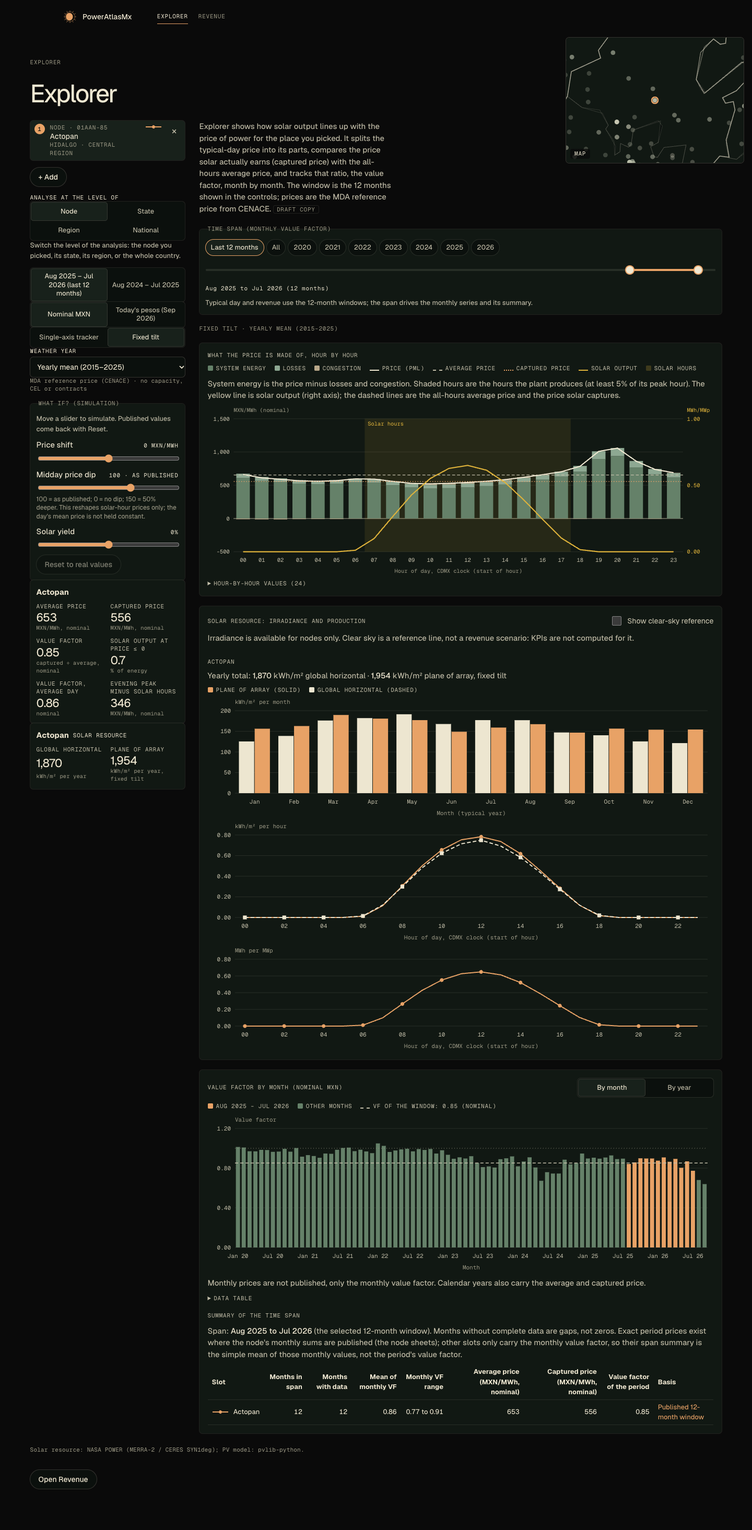
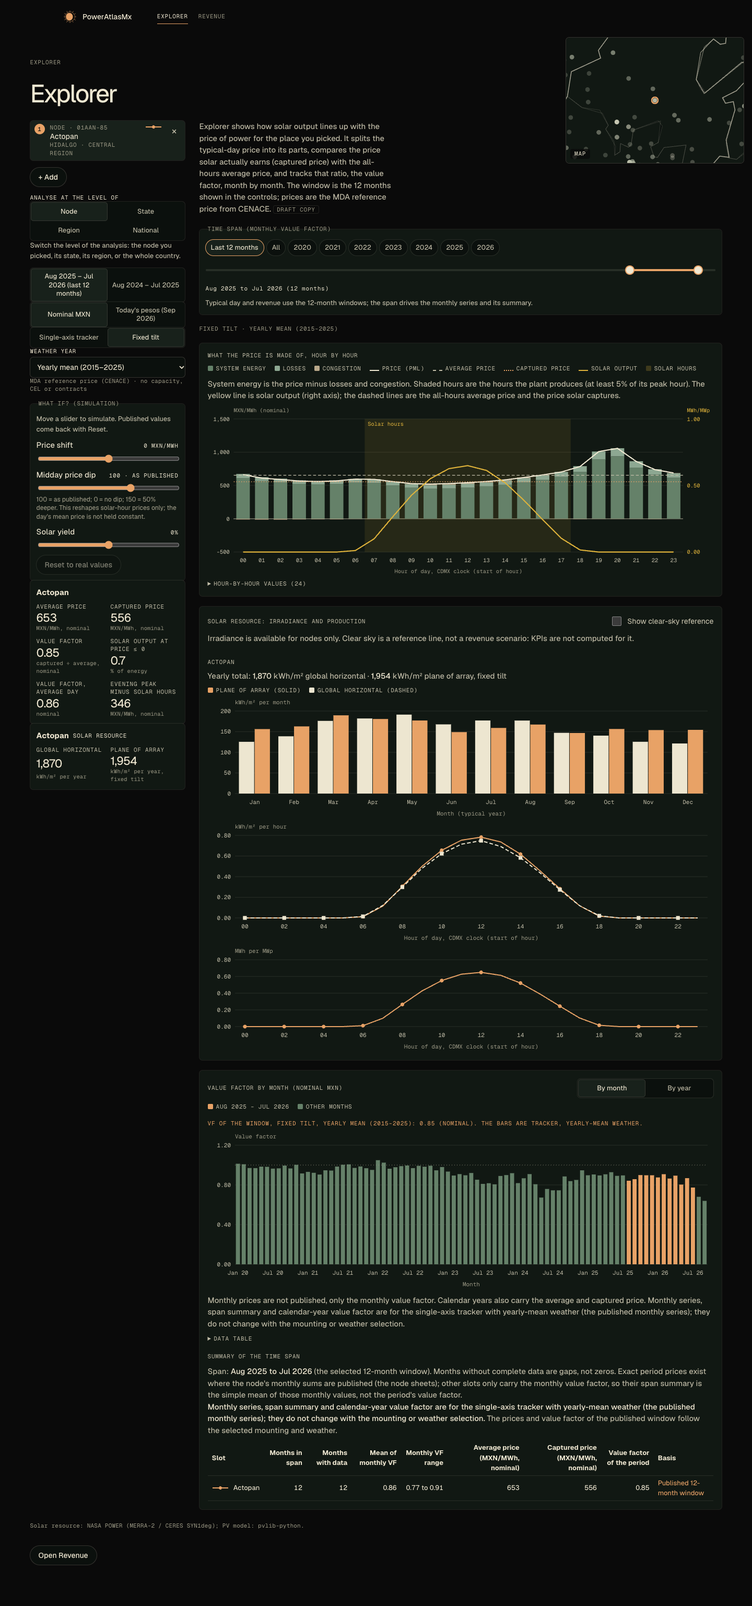
v2: m10 fixes (monthly note under fixed/weather, lazy irradiance, pinned data cache, one-shot context change, derived area labels, legend)

diff --git a/web/v2/assets/js/irradiance.js b/web/v2/assets/js/irradiance.js
@@ -1,7 +1,7 @@
 // Solar resource of node slots: GHI and plane-of-array (tracker or fixed per mounting), monthly and typical day, optional clear-sky
 // reference (a reference line, not a scenario: no KPIs exist for it) and cloud loss. Areas have no irradiance files.
 import { num } from '../../../assets/js/format.js';
-import { irradianceOf } from './solar-data.js';
+import { irradianceOf, isDefaultCtx } from './solar-data.js';
 import { groupChart, lineChart, renderChart, chartWidth, thin } from './svg-charts.js';
 import { COPY } from './copy.js';
 import { esc, nameOf } from './compare-ui.js';
@@ -42,7 +42,7 @@ export function nodeSolar({ id, cfg, wx, winId, vfile, clear }) {
 export function irradianceCardHTML(slots, clearOn) {
   return `<section class="xp-card irr" id="irr-card"><div class="xp-vhead"><h2 class="mono">Solar resource: irradiance and production</h2>
     <label class="chk"><input type="checkbox" id="irr-clear"${clearOn ? ' checked' : ''}> <span>Show clear-sky reference</span></label></div>
-    <p class="xp-text">${esc(COPY.irrNote)}</p><div id="irr-body">${slots.some((s) => s.kind === 'node') ? '<p class="xp-text">Loading irradiance…</p>' : '<p class="xp-text">Irradiance is available for nodes: pick a node to see it.</p>'}</div></section>`;
+    <p class="xp-text">${esc(COPY.irrNote)}</p><div id="irr-body">${slots.some((s) => s.kind === 'node') ? '<p class="xp-text">Irradiance loads when this section comes into view.</p>' : '<p class="xp-text">Irradiance is available for nodes: pick a node to see it.</p>'}</div></section>`;
 }
 
 /** body: fills #irr-body once the files are loaded. data = {vfile, clear}; entries = scenario/real entries with slots. */
@@ -53,7 +53,7 @@ export function paintIrradiance(root, { entries, shell, winId, cfg, wx, data, cl
   if (!nodes.length) { body.innerHTML = `<p class="xp-text">${esc(COPY.irrNote)}</p>`; return; }
   const plane = cfg === 'fijo' ? 'plane of array, fixed tilt' : 'plane of array, tracker';
   body.innerHTML = nodes.map(({ e, k }) => `<div class="irr-slot"><h3 class="mono sub">${esc(nameOf(shell, e))}</h3><div class="irr-sum" data-sum="${k}"></div>
-    <div class="legend mono"><span><i style="background:var(--s1)"></i>Plane of array (solid)</span><span><i style="background:var(--s2)"></i>Global horizontal (dashed)</span>${clearOn ? '<span><i class="band"></i>Clear sky: outline bars, dotted lines</span>' : ''}</div>
+    <div class="legend mono"><span><i style="background:var(--s1)"></i>Plane of array (solid)</span><span><i style="background:var(--s2)"></i>Global horizontal (dashed)</span>${clearOn ? '<span><i class="outline"></i>Clear sky: outline bars, dotted lines</span>' : ''}</div>
     <div class="chart" data-m="${k}"></div><div class="chart" data-h="${k}"></div><div class="chart" data-p="${k}"></div></div>`).join('');
   for (const { e, k } of nodes) {
     const s = nodeSolar({ id: e.slot.id, cfg, wx, winId, vfile: data.vfile, clear: clearOn ? data.clear : null });
@@ -61,7 +61,7 @@ export function paintIrradiance(root, { entries, shell, winId, cfg, wx, data, cl
     if (!s) { sum.textContent = 'No irradiance for this node.'; continue; }
     const wxNote = wx === 'win' ? ' (window months, Aug to Jul)' : '';
     sum.innerHTML = `Yearly total${esc(wxNote)}: <b>${num(s.annual.ghi, 0)}</b> kWh/m² global horizontal · <b>${num(s.annual.poa, 0)}</b> kWh/m² ${plane}`
-      + (s.loss ? ` · cloud loss vs clear sky: <b>${s.loss.poa === null ? '—' : num(s.loss.poa, 1)}%</b> of irradiance, <b>${s.loss.prod === null ? '—' : num(s.loss.prod, 1)}%</b> of production` : '');
+      + (s.loss ? ` · cloud loss vs clear sky: <b>${s.loss.poa === null ? '—' : num(s.loss.poa, 1)}%</b> of yearly plane-of-array irradiance, <b>${s.loss.prod === null ? '—' : num(s.loss.prod, 1)}%</b> of typical-day production (1 − real ÷ clear)` : '');
     const ghost = clearOn && s.c;
     renderChart(body.querySelector(`[data-m="${k}"]`), () => groupChart({ labels: s.mGhi.labels, H: 230, fmt: (v) => num(v, 0), xEvery: thin(12, chartWidth(body.querySelector(`[data-m="${k}"]`)), 44),
       series: [{ vals: s.mGhi.vals, color: 'var(--s2)', label: 'GHI' }, { vals: s.mPoa.vals, color: 'var(--s1)', label: 'POA' }, ...(ghost ? [{ vals: s.mGhiClear, ghost: true, label: 'GHI, clear sky' }, { vals: s.mPoaClear, ghost: true, label: 'POA, clear sky' }] : [])],
@@ -75,3 +75,6 @@ export function paintIrradiance(root, { entries, shell, winId, cfg, wx, data, cl
     renderChart(body.querySelector(`[data-p="${k}"]`), () => lineChart({ series: ps, labels: hrs, H: 200, xEvery: 2, markEvery: 2, fmt: (v) => num(v, 2), aria: 'Typical day production by hour in megawatt hours per megawatt peak', ytitle: 'MWh per MWp', xtitle: 'Hour of day, CDMX clock (start of hour)' }));
   }
 }
+
+/** the irradiance files (4-5 MB) are fetched only when the card is visible, or when a non-default option already fetched that file. */
+export const shouldLoadIrradiance = (ctx, visible) => !!visible || !isDefaultCtx(ctx);

diff --git a/web/v2/assets/js/area-tables.js b/web/v2/assets/js/area-tables.js
@@ -2,6 +2,8 @@
 import { WIN, stName, regName } from '../../../assets/js/names.js';
 import { num } from '../../../assets/js/format.js';
 import { esc } from './compare-ui.js';
+import { isDefaultCtx, variantRecord } from './solar-data.js';
+import { COPY } from './copy.js';
 
 const mil = (v) => (v === null || v === undefined ? '—' : num(v / 1e6, 2));
 export const COLUMNS = [
@@ -23,6 +25,15 @@ export function areaRows(analysis, winId, level, real) {
       rev: real && s.ingreso_real_mxn_por_mwp != null ? s.ingreso_real_mxn_por_mwp : s.ingreso_mxn_por_mwp, n: s.n_nodos };
   });
 }
+/** non-default mounting / weather: the same table derived in the browser (mean over member nodes), from the solar_v2 files. */
+export function areaRowsCtx(src, analysis, winId, level, real, ctx) {
+  const c = analysis.ventanas[WIN[winId].key].por_config.tracker;
+  const keys = Object.keys(level === 'state' ? c.estados : c.regiones);
+  return keys.map((id) => variantRecord(src, { kind: level, id }, winId, ctx)).filter((r) => !r.missing).map((r) => ({
+    id: r.key, level, name: level === 'state' ? stName(r.key) : regName(r.key), n: r.n,
+    base: real && r.baseReal != null ? r.baseReal : r.base, cap: real && r.capReal != null ? r.capReal : r.cap,
+    vf: (real && r.baseReal ? r.capReal / r.baseReal : r.vf), rev: real && r.ingresoReal != null ? r.ingresoReal : r.ingreso }));
+}
 export function sortRows(rows, key, dir = -1) {
   const t = rows.slice();
   t.sort((a, b) => (key === 'name' ? dir * a.name.localeCompare(b.name) : dir * ((a[key] ?? -Infinity) - (b[key] ?? -Infinity))) || a.name.localeCompare(b.name));
@@ -30,14 +41,16 @@ export function sortRows(rows, key, dir = -1) {
 }
 const fmt = (c, r) => (c.k === 'name' ? esc(r.name) : c.k === 'rev' ? mil(r.rev) : c.k === 'vf' ? num(r.vf, 2) : c.k === 'n' ? num(r.n, 0) : num(r[c.k], 0));
 
-export function areaTablesHTML(analysis, winId, real, sorts) {
+export function areaTablesHTML(analysis, winId, real, sorts, opts = {}) {
   const pesos = real ? "today's pesos" : 'nominal';
+  const ctx = opts.ctx || { cfg: 'tracker', wx: 'mean' }, dflt = isDefaultCtx(ctx);
+  const ctxText = `${ctx.cfg === 'fijo' ? 'fixed tilt' : 'single-axis tracker'} · ${COPY.wxLabel(ctx.wx)}`;
   return ['state', 'region'].map((level) => {
-    const s = sorts[level], rows = sortRows(areaRows(analysis, winId, level, real), s.key, s.dir);
+    const s = sorts[level], base = dflt || !opts.src ? areaRows(analysis, winId, level, real) : areaRowsCtx(opts.src, analysis, winId, level, real, ctx), rows = sortRows(base, s.key, s.dir);
     const head = COLUMNS.map((c) => `<th class="${c.text ? '' : 'n'}" aria-sort="${s.key === c.k ? (s.dir > 0 ? 'ascending' : 'descending') : 'none'}"><button type="button" class="sort" data-level="${level}" data-key="${c.k}">${esc(c.h)}${c.unit ? ` <span class="u">${esc(c.unit)}${c.k === 'rev' || c.k === 'base' || c.k === 'cap' ? `, ${pesos}` : ''}</span>` : ''}</button></th>`).join('');
     const body = rows.map((r) => `<tr class="pick-row" tabindex="0" data-level="${level}" data-id="${esc(r.id)}"><td>${esc(r.name)}</td>${COLUMNS.slice(1).map((c) => `<td class="n">${fmt(c, r)}</td>`).join('')}</tr>`).join('');
-    return `<section class="xp-card"><h2 class="mono">${level === 'state' ? 'All states' : 'All regions'}, ${esc(WIN[winId].label)} · ${esc(pesos)}</h2>
-      <p class="xp-text">Published area figures. Click a row to analyse that ${level}. Click a heading to sort.</p><div class="tbl cmp tall"><table><thead><tr>${head}</tr></thead><tbody>${body}</tbody></table></div></section>`;
+    return `<section class="xp-card"><h2 class="mono">${level === 'state' ? 'All states' : 'All regions'}, ${esc(WIN[winId].label)} · ${esc(pesos)} · ${esc(ctxText)}</h2>
+      <p class="xp-text">${dflt ? 'Published area figures.' : 'Mean over member nodes (derived in the browser from the published node figures).'} Click a row to analyse that ${level}. Click a heading to sort.</p><div class="tbl cmp tall"><table><thead><tr>${head}</tr></thead><tbody>${body}</tbody></table></div></section>`;
   }).join('');
 }
 

diff --git a/web/v2/assets/js/series-card.js b/web/v2/assets/js/series-card.js
@@ -9,6 +9,7 @@ import { segment } from './controls.js';
 import { COPY } from './copy.js';
 import { inSpan } from './span-data.js';
 import { isNeutral } from './query-extras.js';
+import { isDefaultCtx } from './solar-data.js';
 
 const SAND = 'var(--s1)', MUTED = 'var(--c-energy)';
 
@@ -27,7 +28,9 @@ export function paintSeries(root, { entries, shell, winId, view, onView }) {
   segment(q('#sr-view'), [['months', 'By month'], ['years', 'By year']], view, onView);
   q('#sr-title').textContent = view === 'months' ? `Value factor by month${span ? ` (${span.from} to ${span.to})` : ''} (nominal MXN)` : `Value factor, average and captured price by calendar year${real ? " (today's pesos)" : ' (nominal MXN)'}`;
   const sim = !isNeutral(shell.store.scenario);
-  q('#sr-note').textContent = COPY.seriesNote + (sim ? ' The bars, lines and the span summary are published values, not simulated.' : '');
+  const dflt = isDefaultCtx({ cfg: shell.store.cfg, wx: shell.store.wx });
+  const ctxLabel = `${shell.store.cfg === 'fijo' ? 'fixed tilt' : 'single-axis tracker'}, ${COPY.wxLabel(shell.store.wx)}`;
+  q('#sr-note').textContent = COPY.seriesNote + (dflt ? '' : ` ${COPY.monthlyNote}`) + (sim ? ' The bars, lines and the span summary are published values, not simulated.' : '');
   const px = q('#sr-px'); px.hidden = view !== 'years';
   if (!ok.length) { q('#sr-vf').innerHTML = '<p class="xp-text">No series for this selection.</p>'; q('#sr-table').innerHTML = ''; return; }
   const multi = entries.length > 1;
@@ -37,8 +40,12 @@ export function paintSeries(root, { entries, shell, winId, view, onView }) {
       const e = ok[0], pb = priceBasis(e.real || e.rec, real), sb = e.real ? priceBasis(e.rec, real) : null; // the bars are published: so is the line
       const vfs = e.series.vf.filter((_, i) => keep[i]);
       const bars = months.map((m, i) => { const inW = m >= w.desde && m <= w.hasta, v = vfs[i]; return { v, label: mesCorto(m), color: inW ? SAND : MUTED, tip: `${mesCorto(m)}: ${v === null ? 'no data' : num(v, 2)}${inW ? ' (in window)' : ''}` }; });
-      q('#sr-leg').innerHTML = `<span><i style="background:${SAND}"></i>${esc(w.label)}</span><span><i style="background:${MUTED}"></i>Other months</span><span><i class="dash"></i>VF of the window${sim ? ' (published)' : ''}: ${num(pb.vf, 2)}${pb.real ? " (today's pesos)" : ' (nominal)'}</span>${sb ? `<span class="exact">Simulated VF of the window: ${sb.vf === null ? 'n/a (price ≤ 0)' : num(sb.vf, 2)}</span>` : ''}`;
-      renderChart(q('#sr-vf'), () => barChart({ bars, hline: { v: pb.vf, label: `Window ${num(pb.vf, 2)}` }, refs: [1], scale: vfAxis(bars.map((b) => b.v).concat([pb.vf])), H: 300, xEvery: every, aria: 'Value factor by month', ytitle: 'Value factor', xtitle: 'Month' }));
+      const vfTxt = `${num(pb.vf, 2)}${pb.real ? " (today's pesos)" : ' (nominal)'}`;
+      const winLine = dflt
+        ? `<span><i class="dash"></i>VF of the window${sim ? ' (published)' : ''}: ${vfTxt}</span>`
+        : `<span class="exact">VF of the window, ${esc(ctxLabel)}: ${vfTxt}. The bars are tracker, yearly-mean weather.</span>`;
+      q('#sr-leg').innerHTML = `<span><i style="background:${SAND}"></i>${esc(w.label)}</span><span><i style="background:${MUTED}"></i>Other months</span>${winLine}${sb ? `<span class="exact">Simulated VF of the window: ${sb.vf === null ? 'n/a (price ≤ 0)' : num(sb.vf, 2)}</span>` : ''}`;
+      renderChart(q('#sr-vf'), () => barChart({ bars, hline: dflt ? { v: pb.vf, label: `Window ${num(pb.vf, 2)}` } : null, refs: [1], scale: vfAxis(bars.map((b) => b.v).concat(dflt ? [pb.vf] : [])), H: 300, xEvery: every, aria: 'Value factor by month', ytitle: 'Value factor', xtitle: 'Month' }));
     } else {
       q('#sr-leg').innerHTML = legendHTML(entries, shell);
       const ser = entries.map((e) => ({ vals: e.series ? e.series.vf.filter((_, i) => keep[i]) : months.map(() => null), label: nameOf(shell, e) }));

diff --git a/web/v2/assets/js/view-base.js b/web/v2/assets/js/view-base.js
@@ -2,6 +2,7 @@
 // repaint on selection, window, basis and width changes. A view supplies { mainHTML(ctx), draw(root, ctx) }.
 import { WIN } from '../../../assets/js/names.js';
 import { loadEntries } from './compare-data.js';
+import { loadSourcesCtx } from './solar-data.js';
 import { loadSources } from './explorer-data.js';
 import { serializeSel } from './store.js';
 import { mountControls } from './controls.js';
@@ -44,7 +45,7 @@ export function mountView({ host, side, shell, view, build }) {
     el.textContent = 'Loading span summary…';
     const rows = await summaryRows(entries, shell, shell.store.span, w, real);
     if (my !== sumVer || dead || !q('#sr-summary')) return;
-    q('#sr-summary').innerHTML = summaryHTML(rows, shell, shell.store.span, w, real);
+    q('#sr-summary').innerHTML = summaryHTML(rows, shell, shell.store.span, w, real, isDefaultCtx({ cfg: shell.store.cfg, wx: shell.store.wx }));
   }
 
   function paint() {
@@ -63,7 +64,7 @@ export function mountView({ host, side, shell, view, build }) {
     if (national) {
       const el = body.querySelector('#vb-areas');
       const drawAreas = () => {
-        el.innerHTML = areaTablesHTML(ctxExtra.analysis, winOf(), real, sorts);
+        el.innerHTML = areaTablesHTML(ctxExtra.analysis, winOf(), real, sorts, { src: ctxExtra.src, ctx: { cfg: shell.store.cfg, wx: shell.store.wx } });
         wireAreaTables(el, sorts, drawAreas, (slot) => shell.store.set([slot, ...shell.store.get().slice(1).filter((s) => !(s.kind === slot.kind && s.id === slot.id))]));
       };
       drawAreas();
@@ -79,12 +80,18 @@ export function mountView({ host, side, shell, view, build }) {
     state('loading', shell.store.cfg === 'fijo' || shell.store.wx !== 'mean' ? 'Loading fixed-tilt / weather-variant data…' : 'Loading data…');
     try {
       const ctx = { cfg: shell.store.cfg, wx: shell.store.wx };
-      const [list, src] = await Promise.all([loadEntries(slots, winOf(), ctx), slots[0].kind === 'national' ? loadSources({ kind: 'national', id: 'ALL' }) : Promise.resolve(null)]);
+      const [list, src] = await Promise.all([loadEntries(slots, winOf(), ctx), slots[0].kind === 'national' ? loadSourcesCtx({ kind: 'national', id: 'ALL' }, ctx) : Promise.resolve(null)]);
       if (my !== ver || dead) return;
       if (list.every((e) => e.error)) throw list[0].error;
-      raw = list; ctxExtra.analysis = src && src.analysis;
+      raw = list; ctxExtra.analysis = src && src.analysis; ctxExtra.src = src;
       ctxExtra.note2015 = null;
-      if (!isDefaultCtx(ctx) && ctx.wx === 'y2015') { try { ctxExtra.note2015 = (await getJSON(solarUrls(ctx).vs)).note_2015 || null; } catch { /* note is informative */ } }
+      if (!isDefaultCtx(ctx) && ctx.wx === 'y2015') {
+        try {
+          const v = await getJSON(solarUrls(ctx).vs), cnt = (win) => v.data.y2015[win].p_cap.filter((x) => x !== null && x !== undefined).length;
+          const raw15 = v.note_2015 || '';
+          ctxExtra.note2015 = raw15.replace(/the 2,431 KPI nodes/, `the nodes with data in the window (${cnt('Y1').toLocaleString('en-US')} in Y1, ${cnt('Y2').toLocaleString('en-US')} in Y2)`) || null;
+        } catch { /* note is informative */ }
+      }
       mountSpan();
       if (list.length === 1 && list[0].missing) {
         entries = null;

diff --git a/web/v2/sw.js b/web/v2/sw.js
@@ -6,10 +6,12 @@
 //  - v1's worker deletes every cache that does not start with its own VERSION (including ours): if that happens the shell is
 //    re-filled from the network on the next online visit, and offline navigations fall back to an inline page, never undefined.
 // Bump VERSION on every release that changes the shell.
-const VERSION = 'v2-m9-2-f1f5dac2';
+const VERSION = 'v2-m9-2-3cebfa03';
 const SHELL = `v2-shell-${VERSION}`;
 const DATA = 'v2-data';
-const DATA_MAX = 16; // bound of the data cache: the data files are 1 to 3 MB each, variants add up; oldest entries leave first
+// Data cache bound: the core JSON (index, analysis, series, profiles, per-config scalars: about 21 MB raw) is pinned; per-variant files
+// (variants/*.json about 4.5 MB, variant_extra about 0.25 MB) are evictable, oldest first, at most DATA_VARIANTS entries (about 25 MB worst case).
+const DATA_VARIANTS = 5;
 importScripts('sw-strategy.js', 'precache.js');
 
 const OFFLINE_HTML = '<!doctype html><html lang="en"><meta charset="utf-8"><meta name="viewport" content="width=device-width, initial-scale=1"><title>Offline · PowerAtlasMx</title>'
@@ -39,7 +41,7 @@ const handlers = {
     if (hit) return hit;
     return fetch(req).then((r) => { e.waitUntil(store(SHELL, req, r)); return r; }).catch(() => Response.error());
   }),
-  data: (req, e) => fetch(req).then((r) => { e.waitUntil(store(DATA, req, r).then(() => self.swStrategy.trimCache(caches, DATA, DATA_MAX))); return r; }).catch(() => caches.open(DATA).then((c) => c.match(req)).then((h) => h || Response.error())),
+  data: (req, e) => fetch(req).then((r) => { e.waitUntil(store(DATA, req, r).then(() => self.swStrategy.trimCache(caches, DATA, DATA_VARIANTS, self.swStrategy.evictableUrl))); return r; }).catch(() => caches.open(DATA).then((c) => c.match(req)).then((h) => h || Response.error())),
 };
 
 self.addEventListener('fetch', (e) => {

diff --git a/web/v2/assets/js/span-summary.js b/web/v2/assets/js/span-summary.js
@@ -5,6 +5,7 @@ import { vfSummary, loadSheetResult } from './span-data.js';
 import { esc, nameOf } from './compare-ui.js';
 import { swatchSVG } from './series-style.js';
 import { spanText } from './range-slider.js';
+import { COPY } from './copy.js';
 
 /** rows for every entry. span = {from,to} | null; win = {desde,hasta}. */
 export async function summaryRows(entries, shell, span, win, real) {
@@ -27,7 +28,7 @@ export async function summaryRows(entries, shell, span, win, real) {
   }));
 }
 
-export function summaryHTML(rows, shell, span, win, real) {
+export function summaryHTML(rows, shell, span, win, real, dflt = true) {
   const eff = span || { from: win.desde, to: win.hasta }, pesos = real ? "today's pesos" : 'nominal';
   const head = ['Slot', 'Months in span', 'Months with data', 'Mean of monthly VF', 'Monthly VF range', `Average price (MXN/MWh, ${pesos})`, `Captured price (MXN/MWh, ${pesos})`, 'Value factor of the period', 'Basis'];
   const body = rows.map((r, k) => {
@@ -39,5 +40,6 @@ export function summaryHTML(rows, shell, span, win, real) {
   }).join('');
   return `<p class="xp-text">Span: <b>${esc(spanText(eff.from, eff.to))}</b>${span ? '' : ' (the selected 12-month window)'}. Months without complete data are gaps, not zeros.
     Exact period prices exist where the node's monthly sums are published (the node sheets); other slots only carry the monthly value factor, so their span summary is the simple mean of those monthly values, not the period's value factor.</p>
+    ${dflt ? '' : `<p class="xp-text"><b>${esc(COPY.monthlyNote)}</b> The prices and value factor of the published window follow the selected mounting and weather.</p>`}
     <div class="tbl cmp"><table><thead><tr>${head.map((h, j) => `<th class="${j && j < head.length - 1 ? 'n' : ''}">${esc(h)}</th>`).join('')}</tr></thead><tbody>${body}</tbody></table></div>`;
 }

diff --git a/web/v2/sw-strategy.js b/web/v2/sw-strategy.js
@@ -26,15 +26,18 @@
     if (!warned) { warned = true; if (warn) warn('v2 service worker: could not cache a response', e); }
     return Promise.resolve(false);
   }
-  /** keep at most `max` entries (oldest inserted first out). Never throws. */
-  function trimCache(cachesApi, name, max) {
+  /** keep at most `max` EVICTABLE entries (oldest inserted first out); entries that are not evictable are pinned. Never throws. */
+  function trimCache(cachesApi, name, max, evictable) {
     return cachesApi.open(name).then(function (c) {
       return c.keys().then(function (ks) {
-        var extra = ks.slice(0, Math.max(0, ks.length - max));
+        var cand = ks.filter(function (k) { return !evictable || evictable(typeof k === 'string' ? k : k.url); });
+        var extra = cand.slice(0, Math.max(0, cand.length - max));
         return Promise.all(extra.map(function (k) { return c.delete(k); })).then(function () { return extra.length; });
       });
     }).catch(function () { return 0; });
   }
-  const api = { strategyFor: strategyFor, staleCaches: staleCaches, storeResponse: storeResponse, trimCache: trimCache };
+  /** pinned: index/analysis/series/profiles and the per-config scalars. evictable: per-variant files (4-5 MB each). */
+  function evictableUrl(url) { return /\/solar_v2\/(variants|variant_extra)\//.test(url); }
+  const api = { strategyFor: strategyFor, staleCaches: staleCaches, storeResponse: storeResponse, trimCache: trimCache, evictableUrl: evictableUrl };
   if (typeof module !== 'undefined' && module.exports) module.exports = api; else root.swStrategy = api;
 })(typeof self !== 'undefined' ? self : this);

diff --git a/web/v2/assets/js/explorer.js b/web/v2/assets/js/explorer.js
@@ -3,7 +3,7 @@ import { WIN } from '../../../assets/js/names.js';
 import { mountView } from './view-base.js';
 import { isNeutral } from './query-extras.js';
 import { decompSectionHTML, drawDecomp } from './decomposition.js';
-import { irradianceCardHTML, paintIrradiance, nodeSolar } from './irradiance.js';
+import { irradianceCardHTML, paintIrradiance, nodeSolar, shouldLoadIrradiance } from './irradiance.js';
 import { loadIrradiance } from './solar-data.js';
 import { esc as escH, nameOf } from './compare-ui.js';
 import { num } from '../../../assets/js/format.js';
@@ -39,7 +39,12 @@ export function mountExplorer(host, { shell, side }) {
         };
         const chk = root.querySelector('#irr-clear');
         if (chk) chk.addEventListener('change', () => { shell.showClear = chk.checked; irr(); });
-        irr();
+        const card = root.querySelector('#irr-card');
+        if (shouldLoadIrradiance(ctx, false) || !card || typeof IntersectionObserver === 'undefined') irr();
+        else {
+          const io = new IntersectionObserver((es) => { if (es.some((x) => x.isIntersecting)) { io.disconnect(); irr(); } }, { rootMargin: '0px' });
+          io.observe(card);
+        }
         paintSeries(root, { entries, shell, winId, view: seriesView, onView: (v) => { seriesView = v; repaint(); } });
         if (entries.length > 1) {
           const L = columnLabels(real, !isNeutral(shell.store.scenario), { cfg: shell.store.cfg, wx: shell.store.wx }), rows = compareRows(entries, real);

diff --git a/web/v2/assets/js/indicators.js b/web/v2/assets/js/indicators.js
@@ -29,6 +29,6 @@ export function indicatorsHTML(entries, shell, view) {
     const sim = !!entries[k].real;
     const na = e.rec && e.rec.simNA;
     const items = indicatorItems(row, view, real, sim && base[k].ok ? base[k] : null).map(([l, v, u, dl]) => (na && v === '—' ? [l, 'n/a', 'price ≤ 0 under this scenario', ''] : [l, v, u, dl])).map(([l, v, u, dl]) => `<div class="ind-item"><span class="mono">${esc(l)}</span><strong>${v}</strong>${dl ? `<span class="mono delta">${esc(dl)} vs real</span>` : ''}<span class="mono u">${esc(u)}</span></div>`).join('');
-    return `<section class="ind">${head}${row.partial ? `<p class="xp-warn-inline">${esc(row.partial)}</p>` : ''}${row.partial && row.equiv ? `<p class="xp-text">${esc(row.equiv)}</p>` : ''}${na ? '<p class="xp-text">Prices are shown, and are zero or negative under this scenario; the value factor and revenue are not meaningful.</p>' : ''}<div class="ind-grid">${items}</div></section>`;
+    return `<section class="ind">${head}${row.partial ? `<p class="xp-warn-inline">${esc(row.partial)}</p>` : ''}${row.partial && row.equiv ? `<p class="xp-text">${esc(row.equiv)}</p>` : ''}${e.rec && e.rec.derived ? '<p class="xp-text mono">Mean over member nodes (derived)</p>' : ''}${na ? '<p class="xp-text">Prices are shown, and are zero or negative under this scenario; the value factor and revenue are not meaningful.</p>' : ''}<div class="ind-grid">${items}</div></section>`;
   }).join('');
 }

diff --git a/web/v2/assets/js/route-logic.js b/web/v2/assets/js/route-logic.js
@@ -53,12 +53,14 @@ export function createRouter({ store, valid = () => null, replace, currentHash =
       if (r.hash !== hash) replace(r.hash);
       applying = true;
       try {
-        if (r.path !== '/' && store.real !== r.real) store.setReal(r.real);
-        if (r.path !== '/' && !spanEquals(store.span, r.span)) store.setSpan(r.span);
-        if (r.path !== '/' && !scenarioEquals(store.scenario, r.sc)) store.setScenario(r.sc);
-        if (r.path !== '/' && store.cfg !== r.cfg) store.setCfg(r.cfg);
-        if (r.path !== '/' && store.wx !== r.wx) store.setWx(r.wx);
-        if (r.hadSel && serializeSel(store.get()) !== serializeSel(r.list)) store.set(r.list);
+        store.batch(() => {
+          if (r.path !== '/' && store.real !== r.real) store.setReal(r.real);
+          if (r.path !== '/' && !spanEquals(store.span, r.span)) store.setSpan(r.span);
+          if (r.path !== '/' && !scenarioEquals(store.scenario, r.sc)) store.setScenario(r.sc);
+          if (r.path !== '/' && store.cfg !== r.cfg) store.setCfg(r.cfg);
+          if (r.path !== '/' && store.wx !== r.wx) store.setWx(r.wx);
+          if (r.hadSel && serializeSel(store.get()) !== serializeSel(r.list)) store.set(r.list);
+        });
       } finally { applying = false; }
       return { path: r.path, prev, changed: prev !== r.path };
     },

diff --git a/web/v2/assets/js/copy.js b/web/v2/assets/js/copy.js
@@ -23,7 +23,7 @@ export const COPY = {
   mountNote: 'Single-axis tracker: panels follow the sun east to west with backtracking. Fixed tilt: panels face south at a fixed angle set from the node\'s latitude (about three quarters of the latitude plus 3 degrees). Same losses for both.',
   weatherNote: 'Weather year: the typical day of each month is built from the selected weather and applied to the real prices of the window. Yearly mean is the published default.',
   wxLabel: (v) => (v === 'mean' ? 'Yearly mean (2015–2025)' : v === 'win' ? 'Window weather' : `${v.slice(1)} weather`),
-  monthlyNote: 'The monthly value factor series and the span slider use the single-axis tracker with yearly-mean weather (the published monthly series); they do not change with the mounting or weather selection.',
+  monthlyNote: 'Monthly series, span summary and calendar-year value factor are for the single-axis tracker with yearly-mean weather (the published monthly series); they do not change with the mounting or weather selection.',
   irrNote: 'Irradiance is available for nodes only. Clear sky is a reference line, not a revenue scenario: KPIs are not computed for it.',
   credits: 'Solar resource: NASA POWER (MERRA-2 / CERES SYN1deg); PV model: pvlib-python.',
 };

diff --git a/web/v2/assets/js/store.js b/web/v2/assets/js/store.js
@@ -33,11 +33,14 @@ export function createStore(initial = []) {
   let cfg = 'tracker'; // mounting: 'tracker' | 'fijo'
   let wx = 'mean';     // weather: 'mean' | 'y2015'..'y2025' | 'win'
   const subs = new Set();
-  const emit = () => subs.forEach((f) => f(list));
+  let batching = 0, dirty = false;
+  const emit = () => { if (batching) { dirty = true; return; } subs.forEach((f) => f(list)); };
   return {
     get: () => list,
     get real() { return real; },
     setReal(v) { v = !!v; if (v !== real) { real = v; emit(); } },
+    /** run several setters and notify subscribers once (no in-between state is ever observed or loaded). */
+    batch(fn) { batching++; try { fn(); } finally { batching--; } if (!batching && dirty) { dirty = false; emit(); } },
     get span() { return span; },
     setSpan(v) { const n = v && v.from && v.to ? { from: v.from, to: v.to } : null; if (!spanEquals(n, span)) { span = n; emit(); } },
     get scenario() { return scenario; },
